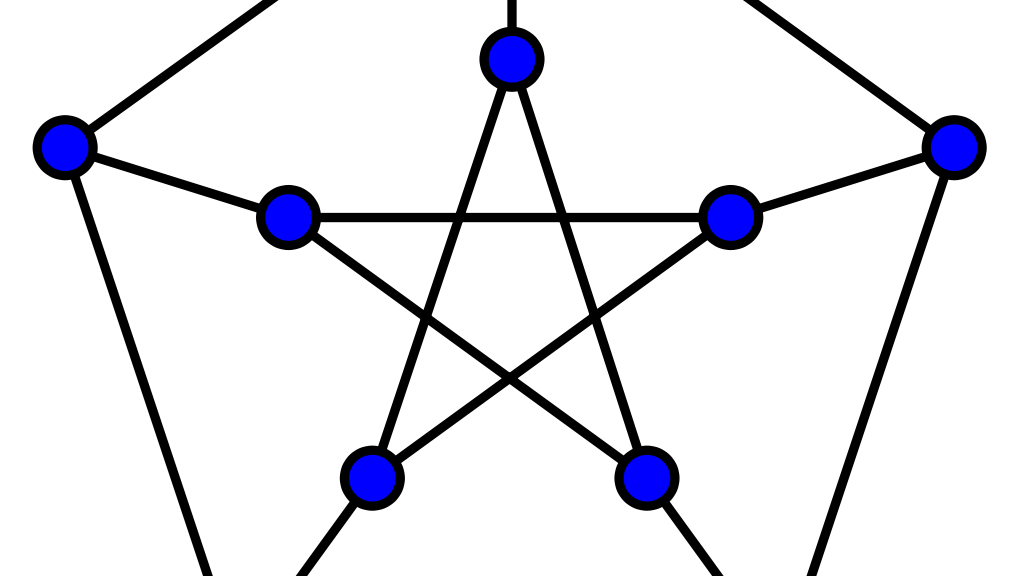
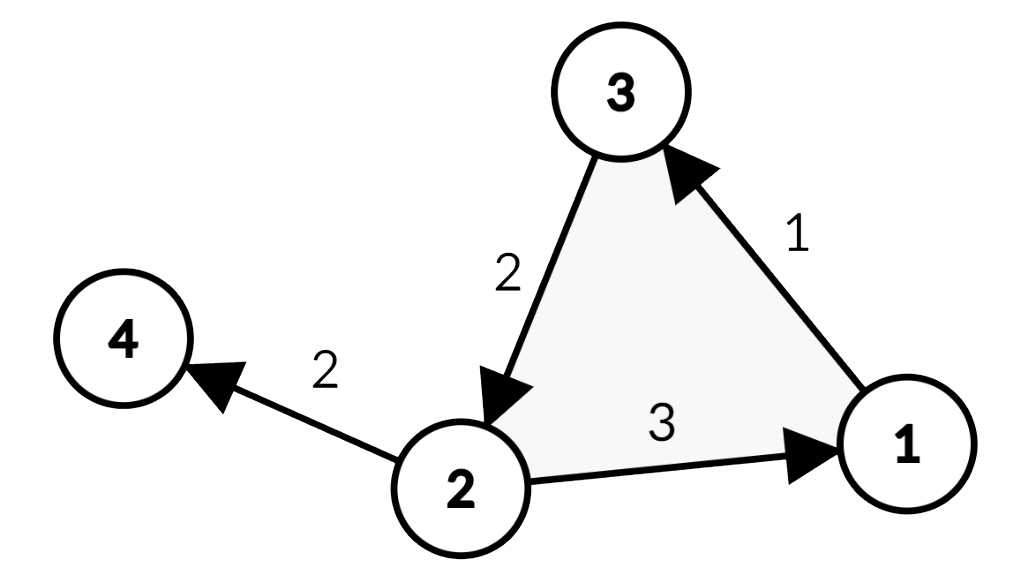
Website Revamp Apr. 6th
Fixed some issues with yesterday's commits, changed a little bit of content, updated the contact section, and fixed copyright.

diff --git a/index.html b/index.html
@@ -114,7 +114,7 @@
 							<div class="project_container">
 								<h3>Scrabble</h3>
 								<img src="img/scrabble.png">
-								<p>A Scrabble game made in Javascript where the user plays against a computer with varying difficulties.</p>
+								<p>A classic Scrabble game with a builtin computer playing in varying difficulties written in Javascript.</p>
 								<a href="https://github.com/zecookiez/scrabble" target="_blank">View on Github</a>
 							</div>
 						</td>
@@ -132,8 +132,8 @@
 							<div class="project_container" style="margin: 0;">
 								<h3>Competitive Programming</h3>
 								<img src="img/competitive.png">
-								<p>I've been solving programming problems in contests such as Advent Of Code, a yearly christmas-themed contest.</p>
-								<a href="https://github.com/zecookiez/AdventOfCode2018" target="_blank">View on Github</a>
+								<p>I've solved and authored various computer science problems on the DMOJ competitive programming platform.</p>
+								<a href="https://dmoj.ca/user/Zeyu/solved" target="_blank">View on DMOJ</a>
 							</div>
 						</td>
 					</tr>
@@ -144,27 +144,32 @@
 			<!-- Contact -->
 			<tr id = "contact">
 				<td colspan="2" align="center">
-				<div class="circle">
-					<h2>Contact Me</h2><br />
-					<h3><b>Zeyu Chen</b></h3>
-					<table>
-						<tr>
-							<td colspan="2"><a href="mailto: ZeyuChenCA@gmail.com" target="_blank"><b>[</b> ZeyuChenCA@gmail.com <b>]</b></a></td>
-						</tr>
-						<tr>
-							<td><img src="img/github.png" class="logo_pic"></td>
-							<td><a href="https://github.com/zecookiez" target="_blank"><b>[</b> zecookiez <b>]</b></a></td>
-						</tr>
-						<tr>
-							<td><img src="img/linkedin.png" class="logo_pic"></td>
-							<td><a href="https://www.linkedin.com/in/zeyuchen-dev/" target="_blank"><b>[</b> Zeyu Chen <b>]</b></a></td>
-						</tr>
-						<tr>
-							<td><img src="img/devpost.png" class="logo_pic"></td>
-							<td><a href="https://devpost.com/zecookiez" target="_blank"><b>[</b> Zeyu Chen (zecookiez) <b>]</b></a></td>
-						</tr>
-					</table>
-				</div>
+					<div class="circle">
+						<div class="left-section">
+							<h2>My Contact</h2>
+							<p style="color:#0D1B1E;">Let's stay in touch, casual conversations are welcomed.</p>
+						</div>
+						<div class="right-section">
+							<h3><b>Zeyu Chen</b></h3>
+							<table>
+								<tr>
+									<td colspan="2"><a href="mailto: ZeyuChenCA@gmail.com" target="_blank"><b>[</b> ZeyuChenCA@gmail.com <b>]</b></a></td>
+								</tr>
+								<tr>
+									<td><img src="img/github.png" class="logo_pic"></td>
+									<td><a href="https://github.com/zecookiez" target="_blank"><b>[</b> zecookiez <b>]</b></a></td>
+								</tr>
+								<tr>
+									<td><img src="img/linkedin.png" class="logo_pic"></td>
+									<td><a href="https://www.linkedin.com/in/zeyuchen-dev/" target="_blank"><b>[</b> Zeyu Chen <b>]</b></a></td>
+								</tr>
+								<tr>
+									<td><img src="img/devpost.png" class="logo_pic"></td>
+									<td><a href="https://devpost.com/zecookiez" target="_blank"><b>[</b> Zeyu Chen (zecookiez) <b>]</b></a></td>
+								</tr>
+							</table>
+						</div>
+					</div>
 				</td>
 			</tr>
 			</table>
@@ -172,7 +177,7 @@
 		
 		<!-- Footer -->
 		<footer>
-			<p>ZEYU's Personal Site © 2019<br><b>made with ♥ by ZEYU CHEN</b></p>
+			<p>Copyright © Zeyu. All rights reserved. 2020<br /><b>Crafted by Zeyu Chen</b></p>
 		</footer>
 		</div>
 	</div>

diff --git a/styles/index_style.css b/styles/index_style.css
@@ -85,7 +85,7 @@ b {
   -moz-background-size: cover;
   background-size: cover;
   background-attachment: fixed;
-  background-position: 0 -50px;
+  background-position: 0 0;
   overflow: hidden;
 }
 
@@ -136,9 +136,9 @@ b {
 }
 
 #arrow {
-  width: 8vmin;
-  top: calc(95vh - 8vmin);
-  left: calc(50vw - 4vmin);
+  width: 14vmin;
+  top: calc(95vh - 14vmin);
+  left: 10vw;
   /* todo: get some sort of neat animation */;
 }
 
@@ -333,13 +333,36 @@ b {
   display: table-cell;
   vertical-align: middle;
   height: 75vmin;
-  width: 75vmin;
+  width: 70vw;
   overflow: auto;
   margin: auto;
   z-index: 1;
-  border-radius: 50%;
+  border-radius: 1em;
   background-color: white;
   box-shadow: 0 8px 24px rgba(0,0,0,0.25), 0 6px 6px rgba(0,0,0,0.22);
+}
+
+.left-section{
+  color: white;
+  display: table-cell;
+  vertical-align: middle;
+  height: 75vmin;
+  width: 35vw;
+  overflow: auto;
+  margin: auto;
+  z-index: 1;
+  background-color: #80BF98;
+}
+
+.right-section{
+  display: table-cell;
+  vertical-align: middle;
+  height: 75vmin;
+  width: 35vw;
+  overflow: auto;
+  margin: auto;
+  z-index: 1;
+  background-color: #F9F8CF;
 }
 
 .logo_pic {

diff --git a/js/animation.js b/js/animation.js
@@ -19,12 +19,12 @@ eventListener.addEventListener("mousemove", (e) => {
 	img3.style.top = `calc(90vh - 10em + ${e.clientY / 200}px)`;
 	img3.style.left = `calc(90vw - 10em + ${e.clientX / 200}px)`;
 
-	arrow.style.top = `calc(95vh - 8vmin + ${e.clientY / 200}px)`;
-	arrow.style.left = `calc(50vw - 4vmin + ${e.clientX / 200}px)`;
+	arrow.style.top = `calc(95vh - 14vmin + ${e.clientY / 200}px)`;
+	arrow.style.left = `calc(10vw + ${e.clientX / 200}px)`;
 
 	header.style.top = `calc(50vh + ${e.clientY / 200}px)`;
 	header.style.left = `calc(10% + ${e.clientX / 200}px)`;
 	
 	bck.style.backgroundPositionX = `${-e.clientX / 300}px`;
-	bck.style.backgroundPositionY = `${-50 - e.clientY / 300}px`;
+	bck.style.backgroundPositionY = `${-150 -e.clientY / 300}px`;
 });
